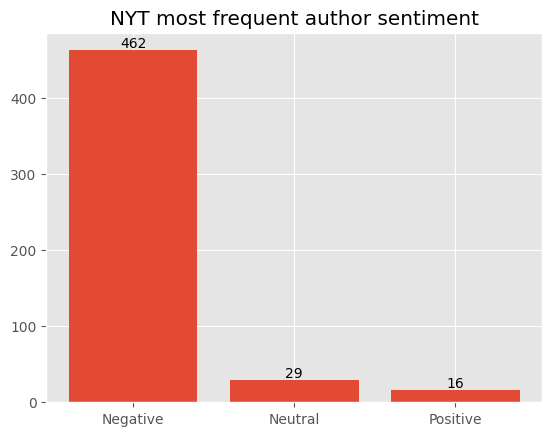
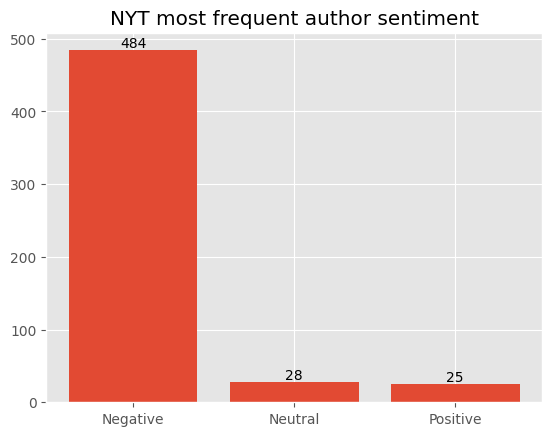
update text analysis

diff --git a/content/text-analysis.md b/content/text-analysis.md
@@ -33,12 +33,12 @@ We used sentiment analysis on all the articles for each publication to look for 
 The table below shows how many articles was classified with a given sentiment for each publication
 |                                     |               Reuters               |               NYT               |
 |:----------------------------------:|:----------------------------------:|:---------------------------------:|
-|Negative | 46,478 (83%) | 16,995 (70%)|
-|Neutral | 5,759 (10%)| 3,821 (16%)|
-|Positive | 3,809 (7%)| 3,561 (14%)|
+|Negative | 47,651 (83%) | 17,376 (73%)|
+|Neutral | 5,812 (10%)| 3,384 (14%)|
+|Positive | 3,666 (7%)| 3,036 (13%)|
 
-Clearly, both publications share the same trend of the vast majority of articles having a negative sentiment. However, Reuters take the lead in being the most negative with 83% of their articles being negative and only 7% being positive. Percentwise, the NYT has twice as many positive but still pretty low a 14%.
-While these results were unexpected, it is perhaps not that surprising as it is a well known phenomenon that [the average person is drawn to negative news](https://www.bbc.com/future/article/20140728-why-is-all-the-news-bad) and publications print what sells.
+Clearly, both publications share the same trend of the vast majority of articles having a negative sentiment. However, Reuters take the lead in being the most negative with 83% of their articles being negative and only 7% being positive. Percentwise, the NYT has almost twice as many positive articles than Reuters but it is still pretty low a 13%.
+While we did not expect these results, perhaps we should have as it is a well known phenomenon that [the average person is drawn to negative news](https://www.bbc.com/future/article/20140728-why-is-all-the-news-bad) and ultimately publications print what sells.
 
 We thought it interesting to look at if the negative sentiment is caused by a few high-throughput authors or if most authors write with this sentiment.
 We therefore found all the articles that each author wrote in the dataset and determined the most frequent sentiment of each author. In this was, we can classify each author as majorily writing in a negative, neutral, or positive sentiment.
@@ -47,4 +47,3 @@ The bar plots below show these findings
 ![](/images/nyt_author_sentiments.png)
 
 From the plots it is evident that the vast majority of authors write in a negative sentiment but that it is even more common at the NYT than at Reuters.
-
